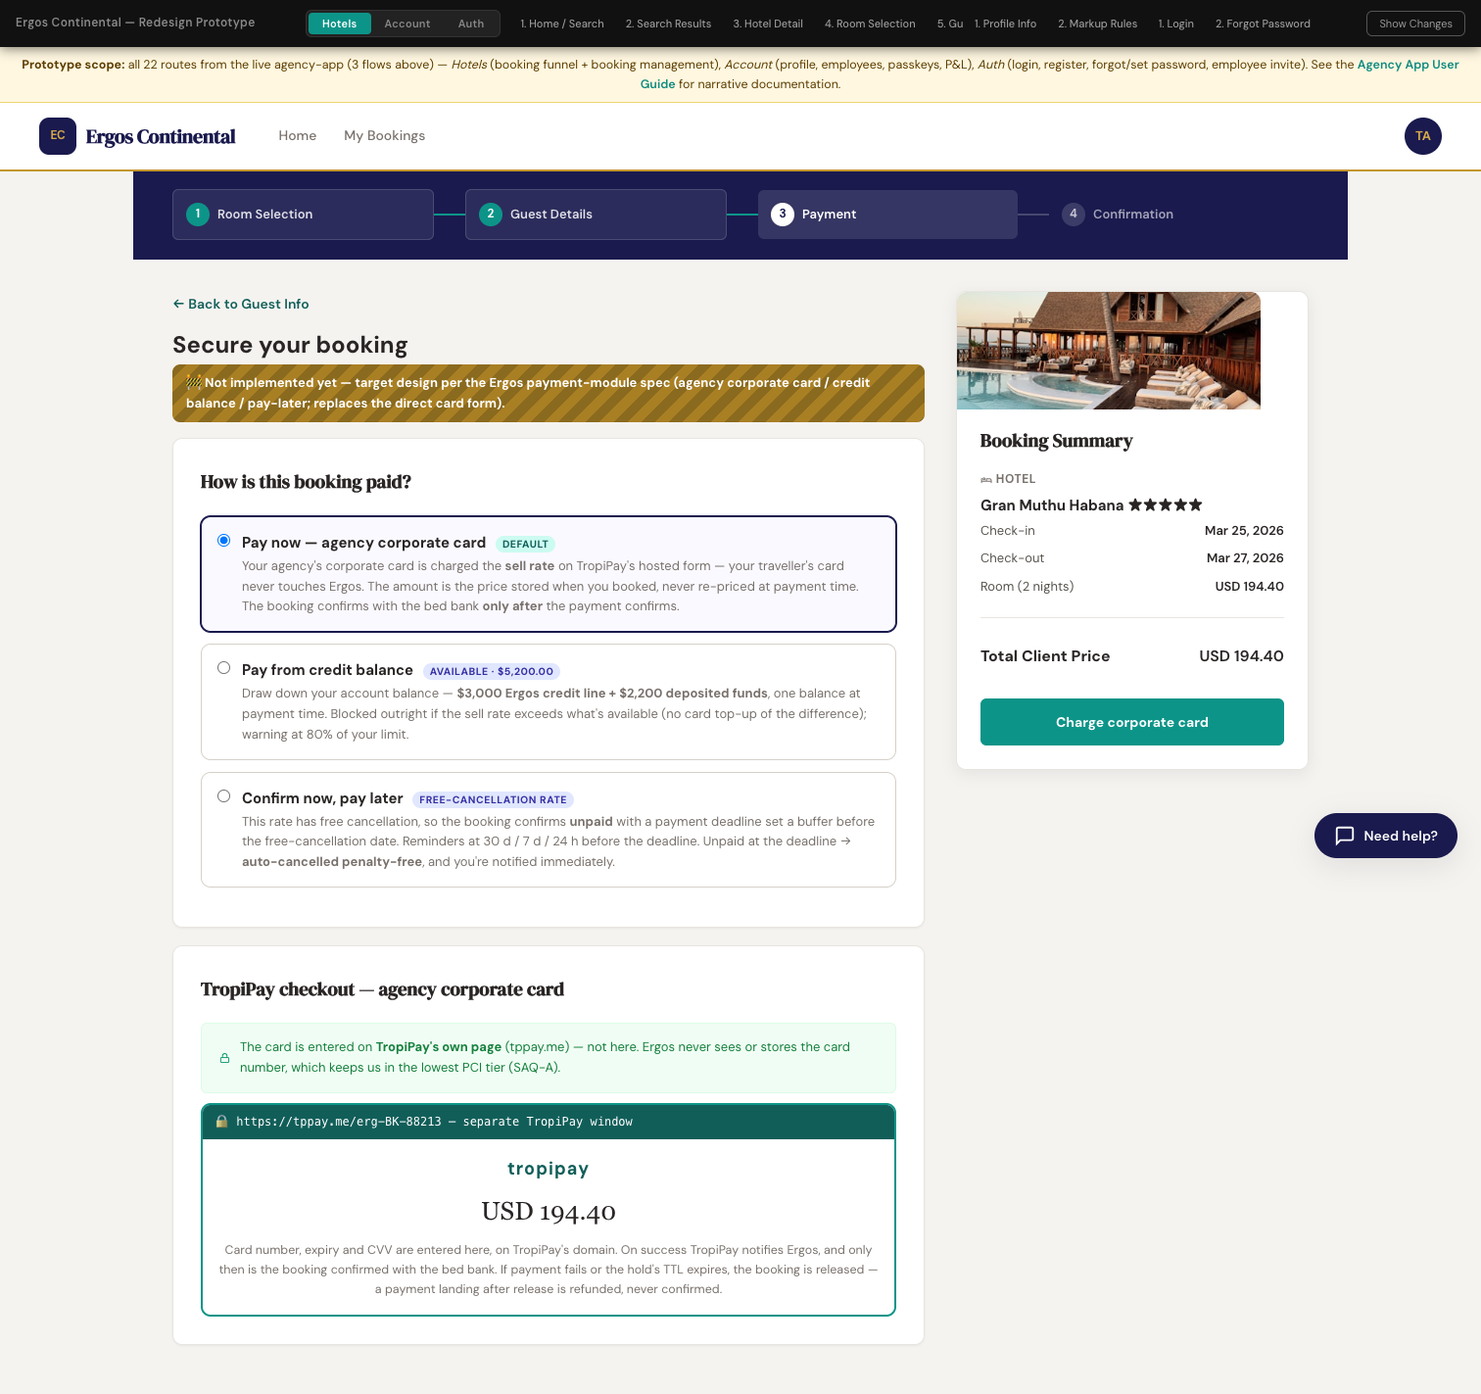
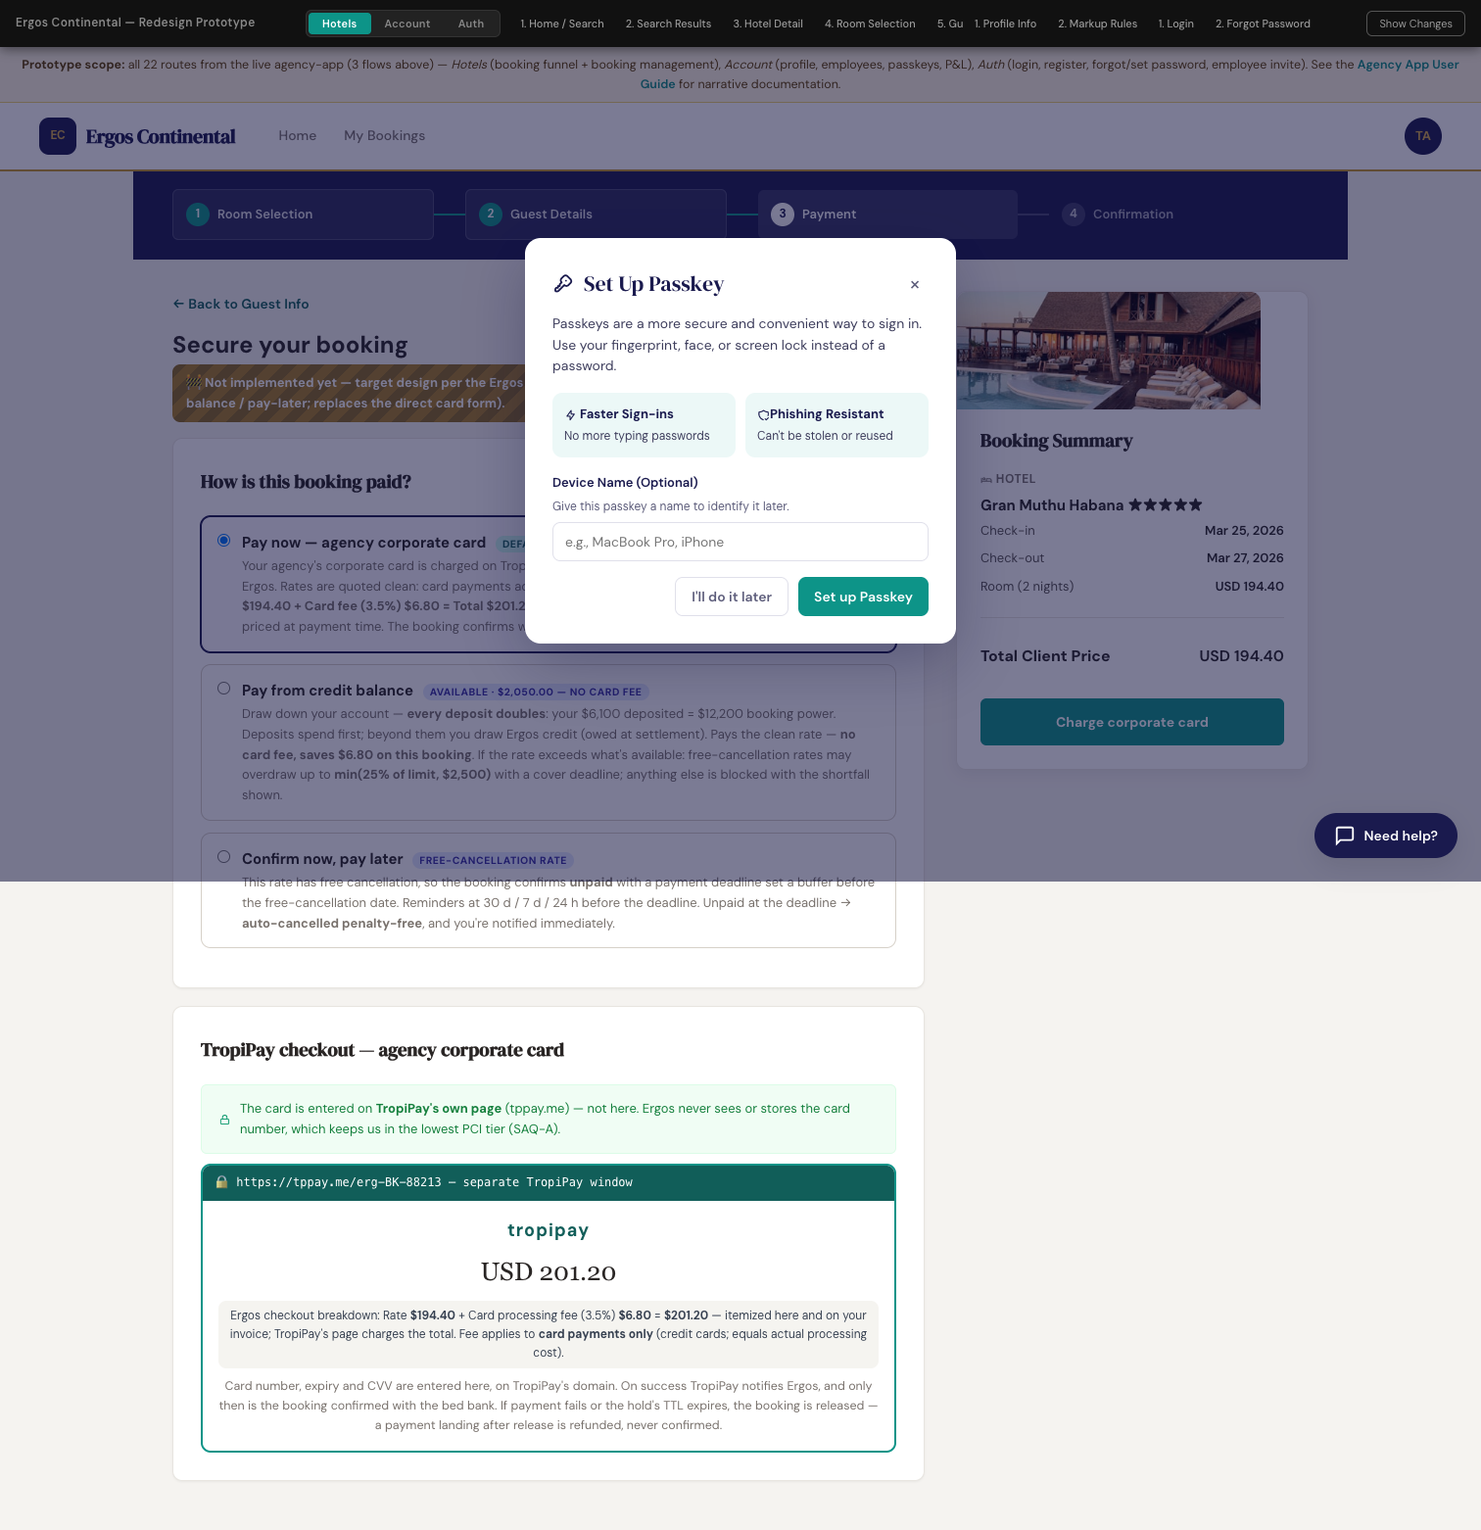
payments prototypes: explicit card-fee line, deposit-matched 2x credit, overdraft cover, full-debt settlement
- payment step: card option shows Rate $194.40 + fee $6.80 = $201.20 breakdown (spec §3 revised); balance option notes no-card-fee saving
- credit account: three-number model (deposits $6,100 / booking power 2x = $12,200 / owed $4,050), overdraft banner with 3-anchor cover (doubling demo), withdrawal un-doubling note, ledger relabelled Ergos credit
- settle balance: bills full outstanding debt only (utilization - deposits = $4,050, itemized per booking; deposits never billed); card total incl. $141.75 fee vs ACH no-fee
- backoffice: credit accounts table on 2x model + NR-overdraft privilege column
- refreshed story screenshots (verified in browser: fee totals, odCover doubling math, settle buttons)

diff --git a/public/prototypes/agency-app/index.html b/public/prototypes/agency-app/index.html
@@ -1362,12 +1362,12 @@
             <label class="pay-opt selected" id="pmCard" onclick="pmSelect('card')">
               <input type="radio" name="pm" checked>
               <div><div class="pay-opt-t">Pay now — agency corporate card <span class="pay-rec">Default</span></div>
-              <div class="pay-opt-d">Your agency's corporate card is charged the <b>sell rate</b> on TropiPay's hosted form — your traveller's card never touches Ergos. The amount is the price stored when you booked, never re-priced at payment time. The booking confirms with the bed bank <b>only after</b> the payment confirms.</div></div>
+              <div class="pay-opt-d">Your agency's corporate card is charged on TropiPay's hosted form — your traveller's card never touches Ergos. Rates are quoted clean: card payments add a <b>separate, visible processing fee</b> at checkout — <b>Rate $194.40 + Card fee (3.5%) $6.80 = Total $201.20</b>. The rate is the price stored when you booked, never re-priced at payment time. The booking confirms with the bed bank <b>only after</b> the payment confirms.</div></div>
             </label>
             <label class="pay-opt" id="pmBalance" onclick="pmSelect('balance')">
               <input type="radio" name="pm">
-              <div><div class="pay-opt-t">Pay from credit balance <span class="pay-off">Available · $5,200.00</span></div>
-              <div class="pay-opt-d">Draw down your account balance — <b>$3,000 Ergos credit line + $2,200 deposited funds</b>, one balance at payment time. Blocked outright if the sell rate exceeds what's available (no card top-up of the difference); warning at 80% of your limit.</div></div>
+              <div><div class="pay-opt-t">Pay from credit balance <span class="pay-off">Available · $2,050.00 — no card fee</span></div>
+              <div class="pay-opt-d">Draw down your account — <b>every deposit doubles</b>: your $6,100 deposited = $12,200 booking power. Deposits spend first; beyond them you draw Ergos credit (owed at settlement). Pays the clean rate — <b>no card fee, saves $6.80 on this booking</b>. If the rate exceeds what's available: free-cancellation rates may overdraw up to <b>min(25% of limit, $2,500)</b> with a cover deadline; anything else is blocked with the shortfall shown.</div></div>
             </label>
             <label class="pay-opt" id="pmLater" onclick="pmSelect('later')">
               <input type="radio" name="pm">
@@ -1385,7 +1385,8 @@
             <div class="tp-handoff">
               <div class="tp-bar">🔒 https://tppay.me/erg-BK-88213 — separate TropiPay window</div>
               <div class="tp-body"><div class="tp-brand">tropipay</div>
-                <div class="tp-amt" id="pay-tp-amt">USD 194.40</div>
+                <div class="tp-amt" id="pay-tp-amt">USD 201.20</div>
+                <div style="font-size:12px;color:#374151;background:#f5f4f0;border-radius:8px;padding:6px 10px;margin:0 auto 8px;display:inline-block">Ergos checkout breakdown: Rate <b>$194.40</b> + Card processing fee (3.5%) <b>$6.80</b> = <b>$201.20</b> — itemized here and on your invoice; TropiPay's page charges the total. Fee applies to <b>card payments only</b> (credit cards; equals actual processing cost).</div>
                 <div class="tp-note">Card number, expiry and CVV are entered here, on TropiPay's domain. On success TropiPay notifies Ergos, and only then is the booking confirmed with the bed bank. If payment fails or the hold's TTL expires, the booking is released — a payment landing after release is refunded, never confirmed.</div></div>
             </div>
           </div>
@@ -1705,29 +1706,49 @@
         .ca-tag{font-family:'DM Sans',sans-serif;font-size:10.5px;font-weight:800;text-transform:uppercase;padding:2px 8px;border-radius:99px}
         .ca-dep{background:#d1fae5;color:#065f46}.ca-draw{background:#fee2e2;color:#991b1b}.ca-rest{background:#e0e7ff;color:#3730a3}
       </style>
-      <div class="ni-ribbon">🚧 Not implemented — Story 4 target design (backend#162): ONE account per agency — Ergos credit line + deposited funds, identical at payment time.</div>
+      <div class="ni-ribbon">🚧 Not implemented — Story 4 target design (backend#162): deposit-matched credit — <b>every deposit doubles</b> into booking power (limit = 2 × deposits); deposits spend first, beyond them you draw Ergos credit.</div>
       <h2>Credit account</h2>
       <div class="ca-grid">
-        <div class="ca-kpi"><div class="l">Credit line (Ergos-extended)</div><div class="v">$10,000.00</div></div>
-        <div class="ca-kpi"><div class="l">Deposited funds (your money)</div><div class="v">$2,200.00</div></div>
-        <div class="ca-kpi"><div class="l">Consumed</div><div class="v" style="color:#b45309">$10,150.00</div></div>
+        <div class="ca-kpi"><div class="l">Your deposits (your money)</div><div class="v">$6,100.00</div></div>
+        <div class="ca-kpi"><div class="l">Booking power (2 × deposits)</div><div class="v">$12,200.00</div></div>
+        <div class="ca-kpi"><div class="l">Ergos credit used — owed</div><div class="v" style="color:#b45309">$4,050.00</div></div>
         <div class="ca-kpi"><div class="l">Available to book</div><div class="v" style="color:#0d9488">$2,050.00</div></div>
       </div>
+      <div style="font-size:12px;color:#78716c;margin:-6px 0 10px">Utilization $10,150.00 = your $6,100.00 in deposits (spent first) + $4,050.00 drawn on Ergos credit — the owed figure is what a settlement bills, never your own deposits.</div>
+      <div class="form-card" style="border:2px solid #b45309;background:#fffbeb">
+        <h3>⚠ Overdraft to cover — booking PTA9940X3</h3>
+        <div style="font-size:13px">This free-cancellation booking drew <b>$230.00 beyond your limit</b> (allowed: deficit ≤ min(25% of limit, $2,500) = $2,500, no other overdraft open). Cover it by <b>Aug 19, 16:00</b> — 72 h, safely inside the rate's free-cancellation window — or the booking is <b>auto-cancelled penalty-free</b> and future overdrafts are blocked for a cooldown.</div>
+        <div style="margin-top:10px;display:flex;gap:8px;flex-wrap:wrap" id="odAnchors">
+          <button class="btn-outline" onclick="odCover(230)">Cover $230</button>
+          <button class="btn-primary" onclick="odCover(460)">Top up $460 → +$920 power ★</button>
+          <button class="btn-outline" onclick="odCover(920)">Top up $920 → +$1,840 power</button>
+        </div>
+        <div style="font-size:11.5px;color:#78716c;margin-top:6px">Every dollar you top up <b>doubles</b> into booking power — and every $1,000 booked from balance saves ≈ $35 vs card fees.</div>
+        <div id="odResult" style="display:none;margin-top:8px;font-size:13px"></div>
+        <script>
+          function odCover(amt){
+            var r=document.getElementById('odResult'); r.style.display='';
+            r.innerHTML='<b>Covered ✓</b> Deposit +$'+amt+' recorded — it doubles: booking power +$'+(2*amt)+' (new limit $'+(12200+2*amt).toLocaleString()+'). The $230 overdraft obligation is closed'+(amt>230?' and you start ahead with fresh headroom.':'.');
+            document.getElementById('odAnchors').style.display='none';
+          }
+        </script>
+      </div>
       <div class="form-card">
-        <h3>Utilisation — 83% of limit <span style="background:#fee2e2;color:#991b1b;font-size:11px;font-weight:800;padding:2px 9px;border-radius:99px;margin-left:8px">80% threshold crossed — you and Ergos admins were notified</span></h3>
+        <h3>Utilisation — 83% of booking power <span style="background:#fee2e2;color:#991b1b;font-size:11px;font-weight:800;padding:2px 9px;border-radius:99px;margin-left:8px">80% threshold crossed — you and Ergos admins were notified</span></h3>
         <div class="ca-bar"><div></div></div>
-        <div style="font-size:12px;color:#78716c">A booking whose sell rate exceeds the available balance is <b>blocked outright</b> with the shortfall shown — no card top-up of the difference. Cancelling a balance-paid booking (inside its free-cancellation window) restores the amount <b>immediately to the same source</b>.</div>
-        <div style="margin-top:10px"><button class="btn-primary" onclick="showScreen('settle-balance')">Settle outstanding balance →</button></div>
+        <div style="font-size:12px;color:#78716c">A booking whose sell rate exceeds the available balance is <b>blocked with the shortfall shown</b> — except free-cancellation rates, which may overdraw up to <b>min(25% of limit, $2,500)</b> with a cover deadline (one at a time). Non-refundable rates never overdraw: cover the shortfall by card inline to proceed. Cancelling a balance-paid booking (inside its free-cancellation window) restores the amount <b>immediately to the same source</b>. Withdrawals un-double (−$2 of power per $1 withdrawn) and can't cut power below current utilization.</div>
+        <div style="margin-top:10px"><button class="btn-primary" onclick="showScreen('settle-balance')">Settle outstanding balance ($4,050.00) →</button></div>
       </div>
       <div class="form-card">
         <h3>Consumption history (composition always visible)</h3>
         <table class="ca-tbl">
           <thead><tr><th>Date</th><th>Type</th><th>Source</th><th>Booking / ref</th><th style="text-align:right">Amount</th></tr></thead>
           <tbody>
-            <tr><td>Aug 14</td><td><span class="ca-tag ca-draw">Drawdown</span></td><td>Credit line</td><td>PTA9932K1</td><td style="text-align:right">−$922.08</td></tr>
+            <tr><td>Aug 14</td><td><span class="ca-tag ca-draw">Drawdown</span></td><td>Ergos credit (owed)</td><td>PTA9932K1</td><td style="text-align:right">−$922.08</td></tr>
             <tr><td>Aug 12</td><td><span class="ca-tag ca-draw">Drawdown</span></td><td>Deposited funds</td><td>PTA9921F7</td><td style="text-align:right">−$783.77</td></tr>
-            <tr><td>Aug 11</td><td><span class="ca-tag ca-rest">Restore</span></td><td>Credit line</td><td>PTA9899Q2 (cancelled in free-cxl window)</td><td style="text-align:right">+$809.22</td></tr>
-            <tr><td>Aug 04</td><td><span class="ca-tag ca-dep">Deposit</span></td><td>Deposited funds</td><td>Bank transfer ref 88213</td><td style="text-align:right">+$2,200.00</td></tr>
+            <tr><td>Aug 11</td><td><span class="ca-tag ca-rest">Restore</span></td><td>Ergos credit</td><td>PTA9899Q2 (cancelled in free-cxl window)</td><td style="text-align:right">+$809.22</td></tr>
+            <tr><td>Aug 06</td><td><span class="ca-tag ca-dep">Deposit</span></td><td>Deposited funds</td><td>Overdraft cover, PTA9902B4 — doubled: +$460 booking power</td><td style="text-align:right">+$230.00</td></tr>
+            <tr><td>Aug 04</td><td><span class="ca-tag ca-dep">Deposit</span></td><td>Deposited funds</td><td>Bank transfer ref 88213 — doubled: +$4,400 booking power</td><td style="text-align:right">+$2,200.00</td></tr>
           </tbody>
         </table>
       </div>
@@ -1746,26 +1767,35 @@
       <div class="nav-right"><div class="avatar">DA</div></div>
     </nav>
     <div class="booking-flow-page">
-      <div class="ni-ribbon">🚧 Not implemented — Story 5 target design (backend#163): the FULL outstanding balance in a single payment — no partials, no per-booking allocation.</div>
+      <div class="ni-ribbon">🚧 Not implemented — Story 5 target design (backend#163): the FULL outstanding debt in a single payment — no partials, no per-booking allocation. Settling always means <b>owed = 0</b>.</div>
       <h2>Settle your outstanding balance</h2>
       <div class="form-card">
-        <h3>Amount due — full balance</h3>
-        <div style="font-family:ui-monospace,Menlo,monospace;font-size:30px;font-weight:700">$10,150.00</div>
-        <div style="font-size:12px;color:#78716c">Settling frees your credit for new bookings. Partial payments are not supported.</div>
+        <h3>Amount due — everything owed to Ergos</h3>
+        <div style="font-family:ui-monospace,Menlo,monospace;font-size:30px;font-weight:700">$4,050.00</div>
+        <div style="font-size:12px;color:#78716c">Utilization $10,150.00 − your deposits $6,100.00 = <b>Ergos credit used $4,050.00</b>. Your own deposits are never billed. Settling frees your credit for new bookings; partial payments are not supported.</div>
+        <table class="ca-tbl" style="margin-top:10px">
+          <thead><tr><th>Booking</th><th>Date</th><th>Drawn from Ergos credit</th></tr></thead>
+          <tbody>
+            <tr><td>PTA9932K1 — Gran Muthu Habana</td><td>Aug 14</td><td style="text-align:right">$922.08</td></tr>
+            <tr><td>PTA9921F7 — Meliá Varadero</td><td>Aug 12</td><td style="text-align:right">$1,877.92</td></tr>
+            <tr><td>PTA9940X3 — Iberostar Selection</td><td>Aug 10</td><td style="text-align:right">$1,250.00</td></tr>
+            <tr><td style="font-weight:700">Total owed</td><td></td><td style="text-align:right;font-weight:700">$4,050.00</td></tr>
+          </tbody>
+        </table>
       </div>
       <div class="form-card" id="stlChoice">
         <h3>How do you want to pay?</h3>
         <label class="pay-opt selected" id="stlCard" onclick="stlSelect('card')">
           <input type="radio" name="stl" checked>
           <div><div class="pay-opt-t">Corporate card (TropiPay hosted form)</div>
-          <div class="pay-opt-d">Cleared immediately — credit freed as soon as the payment confirms. No visible surcharge (the card cost is baked into sell rates).</div></div>
+          <div class="pay-opt-d">Cleared immediately — credit freed as soon as the payment confirms. Card payments carry the <b>separate processing fee</b>: $4,050.00 + fee (3.5%) $141.75 = <b>Total $4,191.75</b>, itemized at checkout and on your invoice.</div></div>
         </label>
         <label class="pay-opt" id="stlAch" onclick="stlSelect('ach')">
           <input type="radio" name="stl">
-          <div><div class="pay-opt-t">ACH bank transfer (Square)</div>
-          <div class="pay-opt-d">Fee 1% / $1 min / <b>$5 max</b> — on this balance: <b>$5.00 vs ~$350 by card cost</b>. Settles in <b>2–3 business days</b>: the balance stays <b>Pending</b> and credit is <b>not freed until the ACH completes</b>. If it fails, nothing changes and you can retry.</div></div>
+          <div><div class="pay-opt-t">ACH bank transfer (Square) <span class="pay-off">No fee</span></div>
+          <div class="pay-opt-d"><b>No fee to you</b> — pay exactly $4,050.00 (vs $141.75 card fee). Settles in <b>2–3 business days</b>: the balance stays <b>Pending</b> and credit is <b>not freed until the ACH completes</b>. If it fails, nothing changes and you can retry.</div></div>
         </label>
-        <button class="btn-primary" id="stlGo" onclick="stlPay()">Pay $10,150.00 by card</button>
+        <button class="btn-primary" id="stlGo" onclick="stlPay()">Pay $4,191.75 by card ($4,050.00 + $141.75 fee)</button>
       </div>
       <div class="form-card" id="stlResult" style="display:none"></div>
       <script>
@@ -1774,7 +1804,7 @@
           document.getElementById('stlAch').classList.toggle('selected',m==='ach');
           document.getElementById('stlCard').querySelector('input').checked=m==='card';
           document.getElementById('stlAch').querySelector('input').checked=m==='ach';
-          document.getElementById('stlGo').textContent = m==='card' ? 'Pay $10,150.00 by card' : 'Debit $10,150.00 by ACH';
+          document.getElementById('stlGo').textContent = m==='card' ? 'Pay $4,191.75 by card ($4,050.00 + $141.75 fee)' : 'Debit $4,050.00 by ACH — no fee';
           window.__stlMode=m;
         }
         function stlPay(){

diff --git a/public/prototypes/backoffice/index.html b/public/prototypes/backoffice/index.html
@@ -1054,13 +1054,13 @@
         <div class="st-card">
           <span class="st-dir st-out">Per-agency accounts</span>
           <h2 style="margin:0 0 2px">Credit accounts</h2>
-          <p class="muted" style="margin:0 0 6px">One account per agency: an <b>Ergos-extended credit line</b> (a number, no real money) and/or <b>agency-deposited funds</b> (real money) — functionally identical at payment time, always shown with their <b>composition</b>. Warn at 80% of limit (global threshold), block a booking outright when its sell rate exceeds the available balance. A cancelled balance-paid booking restores to the same source immediately.</p>
+          <p class="muted" style="margin:0 0 6px">One account per agency, <b>deposit-matched credit</b>: limit = <b>2 × deposits</b> (every deposit doubles; withdrawals un-double, floored at utilization). Deposits spend first; drawdowns beyond them are <b>debt to Ergos</b>, settled in full (Story 5: owed = utilization − deposits). Free-cancellation rates may overdraw up to <b>min(25% of limit, $2,500)</b> with a ≤72 h cover deadline (one at a time; uncovered → sweep auto-cancels penalty-free + strike). <b>NR overdraft</b> is a per-agency privilege letting trusted agencies overdraw on non-refundable rates too (default: off — they must cover inline by card to proceed). Warn at 80% (global). Cancelled balance-paid bookings restore to the same source immediately.</p>
           <table class="st-table">
-            <thead><tr><th>Agency</th><th>Credit line</th><th>Deposited</th><th>Consumed</th><th>Available</th><th>Alert</th></tr></thead>
+            <thead><tr><th>Agency</th><th>Deposits</th><th>Limit (2×)</th><th>Utilization</th><th>Owed to Ergos</th><th>NR overdraft</th><th>Alert</th></tr></thead>
             <tbody>
-              <tr><td>Sunshine Travel LLC</td><td>$10,000.00</td><td>$0.00</td><td>$8,300.00</td><td>$1,700.00</td><td><span class="st-pill st-pending">83% — notified</span></td></tr>
-              <tr><td>Coral Voyages</td><td>$3,000.00</td><td>$2,200.00</td><td>$1,150.00</td><td>$4,050.00</td><td><span class="st-pill st-paid">OK</span></td></tr>
-              <tr><td>Palma Tours Inc</td><td>$0.00</td><td>$5,000.00</td><td>$680.00</td><td>$4,320.00</td><td><span class="st-pill st-paid">OK</span></td></tr>
+              <tr><td>Sunshine Travel LLC</td><td>$6,100.00</td><td>$12,200.00</td><td>$10,150.00</td><td>$4,050.00</td><td><span class="st-pill st-paid">Granted</span></td><td><span class="st-pill st-pending">83% — notified · overdraft $230 cover due Aug 19</span></td></tr>
+              <tr><td>Coral Voyages</td><td>$2,200.00</td><td>$4,400.00</td><td>$1,150.00</td><td>$0.00</td><td><span class="st-pill">—</span></td><td><span class="st-pill st-paid">OK</span></td></tr>
+              <tr><td>Palma Tours Inc</td><td>$5,000.00</td><td>$10,000.00</td><td>$680.00</td><td>$0.00</td><td><span class="st-pill">—</span></td><td><span class="st-pill st-paid">OK</span></td></tr>
             </tbody>
           </table>
         </div>

diff --git a/public/prototypes/agency-app/app.js b/public/prototypes/agency-app/app.js
@@ -2834,14 +2834,14 @@ function updatePaymentForServices() {
     // Ergos payment-module spec (target design): three payment paths.
     //  card    — agency corporate card on TropiPay's hosted form; bed bank confirmed
     //            only after the payment confirms → CONFIRMED_PAID.
-    //  balance — draw down the agency's account (credit line + deposited funds,
-    //            one balance) → CONFIRMED_PAID.
+    //  balance — draw down the agency's account (deposit-matched 2× credit:
+    //            deposits spend first, beyond = owed to Ergos) → CONFIRMED_PAID.
     //  later   — free-cancellation rates only: confirm unpaid with a payment
     //            deadline (buffer before free-cxl date) → CONFIRMED_UNPAID.
     const pmMode = window.__pmMode || 'card';
     if (typeof protoToast === 'function') {
-      if (pmMode === 'card') protoToast('Corporate card charged via TropiPay — booking confirmed with the bed bank.', 'success');
-      else if (pmMode === 'balance') protoToast('Paid from credit balance ($194.40 drawn) — booking confirmed.', 'success');
+      if (pmMode === 'card') protoToast('Corporate card charged $201.20 via TropiPay ($194.40 rate + $6.80 card fee) — booking confirmed with the bed bank.', 'success');
+      else if (pmMode === 'balance') protoToast('Paid from credit balance ($194.40 drawn — no card fee) — booking confirmed.', 'success');
       else protoToast('Confirmed unpaid — pay by Sep 12, 2026 (48 h before free cancellation ends). Reminders at 30 d / 7 d / 24 h.', 'default');
     }
 
